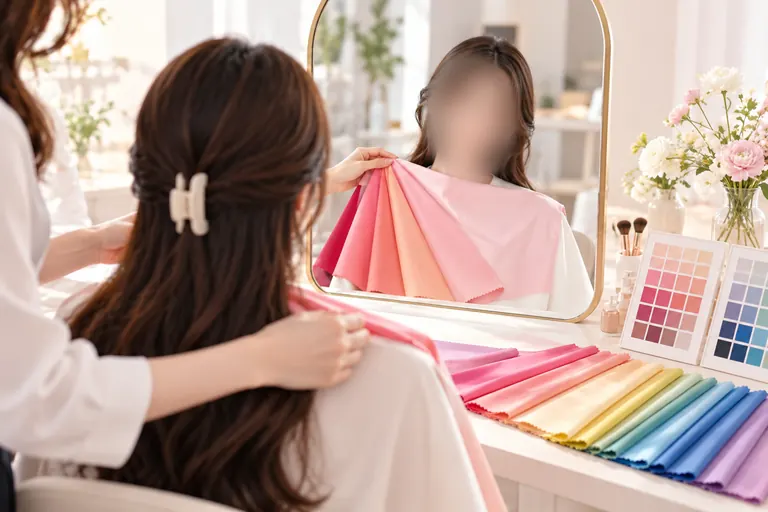
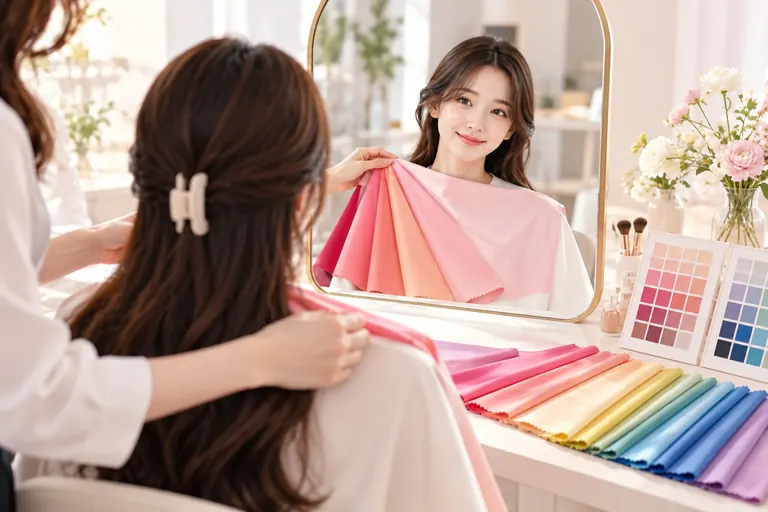
퍼스널컬러 대표 이미지 흐림 없는 원본으로 교체, 가상 인물 얼굴 규칙 정리 [skip netlify]
Claude-Session: https://claude.ai/code/session_01GRqzcaFXEEn8tW1UbVE2Th

Changed region(s): [[0.5312, 0.0938, 0.6875, 0.375]]

diff --git a/notes/personal-color.html b/notes/personal-color.html
@@ -126,8 +126,8 @@ footer{padding-block:48px;display:flex;justify-content:space-between;gap:12px;fl
 </header>
 
 <figure class="hero">
-  <img src="../img/note-personal-color.webp" srcset="../img/note-personal-color-768.webp 768w, ../img/note-personal-color.webp 1536w" sizes="(max-width:760px) 100vw, 760px" width="1536" height="1024" fetchpriority="high" alt="밝은 화장대 앞에 머리를 집게로 묶은 여성이 뒷모습으로 앉아 있고, 진단하는 사람이 어깨에 분홍·코랄·로즈 계열의 진단 천을 겹쳐 대 보고 있다. 거울 속 얼굴은 흐리게 처리되어 있다. 화장대 위에는 무지개색 진단 천이 펼쳐져 있고 웜·쿨 색상 팔레트 카드와 메이크업 브러시, 꽃이 놓여 있다. 퍼스널컬러 드레이핑 진단 장면.">
-  <figcaption>AI 생성 이미지입니다. 실제 인물이 아니며, 거울 속 얼굴은 흐리게 처리했습니다.</figcaption>
+  <img src="../img/note-personal-color.webp" srcset="../img/note-personal-color-768.webp 768w, ../img/note-personal-color.webp 1536w" sizes="(max-width:760px) 100vw, 760px" width="1536" height="1024" fetchpriority="high" alt="밝은 화장대 앞에 머리를 집게로 묶은 여성이 뒷모습으로 앉아 있고, 진단하는 사람이 어깨에 분홍·코랄·로즈 계열의 진단 천을 겹쳐 대 보고 있다. 거울에 웃고 있는 얼굴이 비친다. 화장대 위에는 무지개색 진단 천이 펼쳐져 있고 웜·쿨 색상 팔레트 카드와 메이크업 브러시, 꽃이 놓여 있다. 퍼스널컬러 드레이핑 진단 장면.">
+  <figcaption>AI로 생성한 설명용 이미지이며 실제 인물이 아닙니다.</figcaption>
 </figure>
 
 <article>

diff --git a/CLAUDE.md b/CLAUDE.md
@@ -58,7 +58,7 @@
 ## 노트 이미지
 - 노트마다 대표 이미지 1장(3:2, 1536×1024) + 필요하면 본문 도표 1~2개(직접 제작)
 - 대표 이미지는 사용자가 챗GPT로 생성: Claude가 영어 프롬프트를 써서 전달 → 사용자가 생성해 첨부 → Claude가 WebP로 줄이고 자세한 alt 작성, "AI 생성 이미지" 표시 후 노트·카드에 삽입 (힉스필드는 쓰지 않음)
-- 프롬프트 기준: 사진 같은 에디토리얼 장면, 얼굴 없이 손·뒷모습 위주, 글자·로고·워터마크 금지, 오하루 톤(흰 바탕, 연라벤더, 보라 #6a4bd6 포인트)
+- 프롬프트 기준: 사진 같은 에디토리얼 장면, 글자·로고·워터마크 금지. AI가 만든 가상 인물의 얼굴은 써도 됨(2026-10-22 사용자 결정): 흐림 처리하지 않고 캡션에 "AI로 생성한 설명용 이미지이며 실제 인물이 아닙니다" 표시. 실존 인물·유명인과 닮으면 다시 생성. 실제 사람(사용자 화면 속 타인 이름·계정·사진)은 여전히 흐림, 오하루 톤(흰 바탕, 연라벤더, 보라 #6a4bd6 포인트)
 - 뷰티·반주 노트는 사용자 실제 사진이 있으면 우선 사용
 - img/ 폴더에 note-<slug>.webp로 저장, width/height 지정, loading="lazy"(대표 이미지는 제외)
 
@@ -76,7 +76,7 @@
   4. personal-color 퍼스널컬러 진단(헤어 앱 주제에서 변경)
   5. worship-chord-progressions 찬양 반주 코드 진행 5가지
   6. ai-music-copyright AI 노래 저작권(음저협 기준 2026.8 시행 → 8.25 철회 반영)
-- 6편 모두 대표 이미지 있음(note-<slug>.webp 1536 + -768.webp). AI가 그린 가짜 기사 목록·실존 찬송 악보·얼굴은 흐림 처리하고 캡션에 밝힘
+- 6편 모두 대표 이미지 있음(note-<slug>.webp 1536 + -768.webp). AI가 그린 가짜 기사 목록·실존 찬송 악보는 흐림 처리하고 캡션에 밝힘. 퍼스널컬러 이미지는 2026-10-22 흐림 없는 원본으로 교체(보류 저장, 다음 배포 때 반영)
 - 새 노트 HTML은 suno-lyrics.html과 같은 머리말·스타일·작성자 상자를 그대로 씀. 하단은 "함께 읽을 노트" 3개 링크
 - 사용자는 Suno Premier 구독자. v6 만들기 화면은 Songs 탭의 Simple / Advanced(이전 이름 Custom), 칸 이름은 Lyrics·Styles
 - 노트 이미지: 사용자가 실제 화면을 챗GPT로 합성해 주는 방식이 좋았음. 사적인 이름·계정·사진은 흐리게 처리하고, 설명에 "작성자 실제 화면을 AI로 합성"이라고 표시
